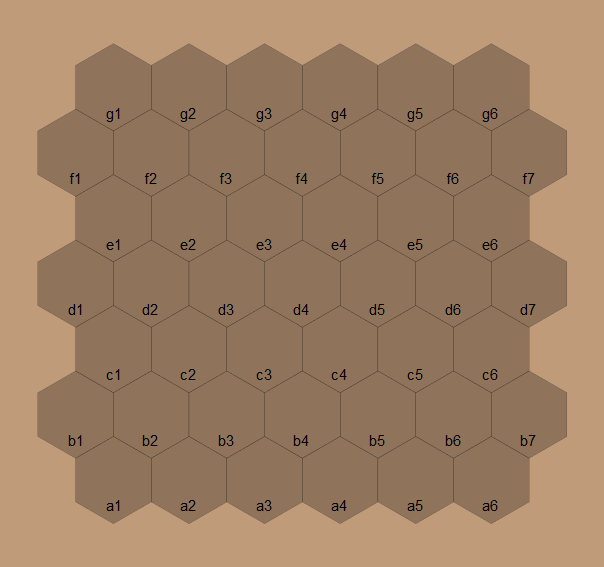
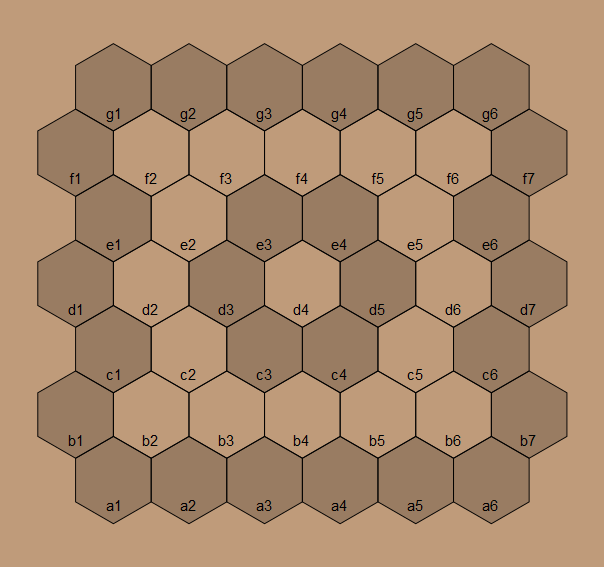
Add ring opacity

diff --git a/pijersi_svg/pijersi_svg.py b/pijersi_svg/pijersi_svg.py
@@ -153,6 +153,7 @@ class CanvasConfig:
     hexagon_width: float = None
     hexagon_side: float = None
     hexagon_height: float = None
+    hexagon_line_width: float = None
 
     hexagon_vertex_count: int = None
     hexagon_side_angle: float = None
@@ -164,9 +165,12 @@ class CanvasConfig:
 
     unit_u: TinyVector = None
     unit_v: TinyVector = None
-    
+
+    label_font_family: str = None
     label_font_size: int = None
     label_shift: TinyVector = None
+
+    hexagon_opacity: float = None
 
 
 def make_canvas_config():
@@ -176,6 +180,7 @@ def make_canvas_config():
     hexagon_width_cm = 2
     hexagon_side_cm = hexagon_width_cm/math.sqrt(3)
     hexagon_height_cm = 2*hexagon_side_cm
+    hexagon_line_width_cm = 0.1/4
 
     max_horizontal_hexagon_count = 7
     max_vertical_hexagon_count = 7
@@ -204,6 +209,9 @@ def make_canvas_config():
     hexagon_side = board_width*(hexagon_side_cm/board_width_cm)
     hexagon_height = board_width*(hexagon_height_cm/board_width_cm)
 
+    hexagon_line_width = max(
+        1, board_width*(hexagon_line_width_cm/board_width_cm))
+
     # Hexagon properties other than sizes
     hexagon_vertex_count = 6
     hexagon_side_angle = 2*math.pi/hexagon_vertex_count
@@ -219,11 +227,15 @@ def make_canvas_config():
     unit_u = unit_x
     unit_v = math.cos(hexagon_side_angle)*unit_x + \
         math.sin(hexagon_side_angle)*unit_y
-        
+
     # Label properties
+    label_font_family = 'Helvetica'
     label_font_size = int(hexagon_width*0.20)
     label_shift = -0.60*hexagon_side*unit_y
-    
+
+    # color and etc.
+    hexagon_opacity = 0.20
+
     return CanvasConfig(board_width_cm=board_width_cm,
                         board_height_cm=board_height_cm,
 
@@ -233,6 +245,7 @@ def make_canvas_config():
                         hexagon_width=hexagon_width,
                         hexagon_side=hexagon_side,
                         hexagon_height=hexagon_height,
+                        hexagon_line_width=hexagon_line_width,
 
                         hexagon_vertex_count=hexagon_vertex_count,
                         hexagon_side_angle=hexagon_side_angle,
@@ -244,9 +257,12 @@ def make_canvas_config():
 
                         unit_u=unit_u,
                         unit_v=unit_v,
-                        
+
+                        label_font_family=label_font_family,
                         label_font_size=label_font_size,
-                        label_shift=label_shift)
+                        label_shift=label_shift,
+
+                        hexagon_opacity=hexagon_opacity)
 
 
 class Hexagon:
@@ -263,7 +279,8 @@ class Hexagon:
 
     Self = TypeVar("Self", bound="Hexagon")
 
-    __slots__ = ('name', 'position_uv', 'index', 'center', 'vertex_data')
+    __slots__ = ('name', 'position_uv', 'ring',
+                 'index', 'center', 'vertex_data')
 
     __all_sorted_hexagons = []
     __init_done = False
@@ -273,7 +290,7 @@ class Hexagon:
 
     all = None  # shortcut to Hexagon.get_all()
 
-    def __init__(self, name: str, position_uv=Tuple[int, int]):
+    def __init__(self, name: str, position_uv: Tuple[int, int], ring: int):
 
         assert name not in Hexagon.__name_to_hexagon
         assert len(position_uv) == 2
@@ -282,6 +299,7 @@ class Hexagon:
 
         self.name = name
         self.position_uv = position_uv
+        self.ring = ring
         self.index = None
 
         Hexagon.__name_to_hexagon[self.name] = self
@@ -372,63 +390,63 @@ class Hexagon:
     def __create_hexagons():
 
         # Row "a"
-        Hexagon('a1', (-1, -3))
-        Hexagon('a2', (-0, -3))
-        Hexagon('a3', (1, -3))
-        Hexagon('a4', (2, -3))
-        Hexagon('a5', (3, -3))
-        Hexagon('a6', (4, -3))
+        Hexagon('a1', (-1, -3), ring=0)
+        Hexagon('a2', (-0, -3), ring=0)
+        Hexagon('a3', (1, -3), ring=0)
+        Hexagon('a4', (2, -3), ring=0)
+        Hexagon('a5', (3, -3), ring=0)
+        Hexagon('a6', (4, -3), ring=0)
 
         # Row "b"
-        Hexagon('b1', (-2, -2))
-        Hexagon('b2', (-1, -2))
-        Hexagon('b3', (0, -2))
-        Hexagon('b4', (1, -2))
-        Hexagon('b5', (2, -2))
-        Hexagon('b6', (3, -2))
-        Hexagon('b7', (4, -2))
+        Hexagon('b1', (-2, -2), ring=0)
+        Hexagon('b2', (-1, -2), ring=1)
+        Hexagon('b3', (0, -2), ring=1)
+        Hexagon('b4', (1, -2), ring=1)
+        Hexagon('b5', (2, -2), ring=1)
+        Hexagon('b6', (3, -2), ring=1)
+        Hexagon('b7', (4, -2), ring=0)
 
         # Row "c"
-        Hexagon('c1', (-2, -1))
-        Hexagon('c2', (-1, -1))
-        Hexagon('c3', (0, -1))
-        Hexagon('c4', (1, -1))
-        Hexagon('c5', (2, -1))
-        Hexagon('c6', (3, -1))
+        Hexagon('c1', (-2, -1), ring=0)
+        Hexagon('c2', (-1, -1), ring=1)
+        Hexagon('c3', (0, -1), ring=2)
+        Hexagon('c4', (1, -1), ring=2)
+        Hexagon('c5', (2, -1), ring=1)
+        Hexagon('c6', (3, -1), ring=0)
 
         # Row "d"
-        Hexagon('d1', (-3, 0))
-        Hexagon('d2', (-2, 0))
-        Hexagon('d3', (-1, 0))
-        Hexagon('d4', (0, 0))
-        Hexagon('d5', (1, 0))
-        Hexagon('d6', (2, 0))
-        Hexagon('d7', (3, 0))
+        Hexagon('d1', (-3, 0), ring=0)
+        Hexagon('d2', (-2, 0), ring=1)
+        Hexagon('d3', (-1, 0), ring=2)
+        Hexagon('d4', (0, 0), ring=3)
+        Hexagon('d5', (1, 0), ring=2)
+        Hexagon('d6', (2, 0), ring=1)
+        Hexagon('d7', (3, 0), ring=0)
 
         # Row "e"
-        Hexagon('e1', (-3, 1))
-        Hexagon('e2', (-2, 1))
-        Hexagon('e3', (-1, 1))
-        Hexagon('e4', (0, 1))
-        Hexagon('e5', (1, 1))
-        Hexagon('e6', (2, 1))
+        Hexagon('e1', (-3, 1), ring=0)
+        Hexagon('e2', (-2, 1), ring=1)
+        Hexagon('e3', (-1, 1), ring=2)
+        Hexagon('e4', (0, 1), ring=2)
+        Hexagon('e5', (1, 1), ring=1)
+        Hexagon('e6', (2, 1), ring=0)
 
         # Row "f"
-        Hexagon('f1', (-4, 2))
-        Hexagon('f2', (-3, 2))
-        Hexagon('f3', (-2, 2))
-        Hexagon('f4', (-1, 2))
-        Hexagon('f5', (0, 2))
-        Hexagon('f6', (1, 2))
-        Hexagon('f7', (2, 2))
+        Hexagon('f1', (-4, 2), ring=0)
+        Hexagon('f2', (-3, 2), ring=1)
+        Hexagon('f3', (-2, 2), ring=1)
+        Hexagon('f4', (-1, 2), ring=1)
+        Hexagon('f5', (0, 2), ring=1)
+        Hexagon('f6', (1, 2), ring=1)
+        Hexagon('f7', (2, 2), ring=0)
 
         # Row "g"
-        Hexagon('g1', (-4, 3))
-        Hexagon('g2', (-3, 3))
-        Hexagon('g3', (-2, 3))
-        Hexagon('g4', (-1, 3))
-        Hexagon('g5', (0, 3))
-        Hexagon('g6', (1, 3))
+        Hexagon('g1', (-4, 3), ring=0)
+        Hexagon('g2', (-3, 3), ring=0)
+        Hexagon('g3', (-2, 3), ring=0)
+        Hexagon('g4', (-1, 3), ring=0)
+        Hexagon('g5', (0, 3), ring=0)
+        Hexagon('g6', (1, 3), ring=0)
 
 
 def draw_pijersi_board():
@@ -450,20 +468,24 @@ def draw_pijersi_board():
     # Draw hexagons
 
     for abstract_hexagon in Hexagon.all:
+
         hexagon = draw.Lines(*abstract_hexagon.vertex_data,
-                             fill=None, fill_opacity=0.25,
+                             fill=None, 
+                             fill_opacity=CANVAS_CONFIG.hexagon_opacity*(1 if abstract_hexagon.ring % 2 == 0 else 0),
                              stroke='black',
+                             stroke_width=CANVAS_CONFIG.hexagon_line_width,
                              close='true')
-        
+
         label_location = abstract_hexagon.center + CANVAS_CONFIG.label_shift
-        
-        board.append(draw.Text(text=abstract_hexagon.name, font_size=CANVAS_CONFIG.label_font_size, 
-                               x=label_location[0], 
+
+        board.append(draw.Text(text=abstract_hexagon.name,
+                               font_size=CANVAS_CONFIG.label_font_size,
+                               font_family=CANVAS_CONFIG.label_font_family,
+                               x=label_location[0],
                                y=label_location[1],
                                center=True,
                                fill='black'))
 
-        
         board.append(hexagon)
 
     print()
